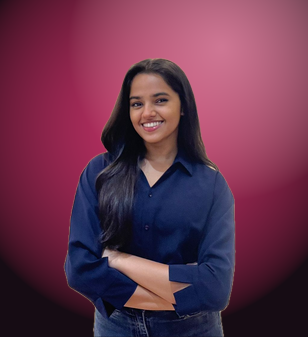
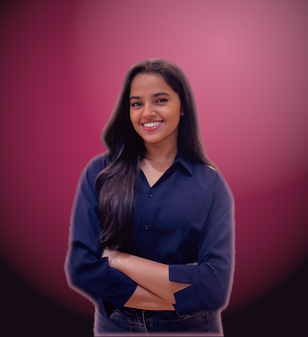
Relight hero photo to match the rose background

diff --git a/index.html b/index.html
@@ -38,7 +38,7 @@
           <p class="scene-word"><img class="logo-inline" src="images/logos/centurion-robotics.png" alt="" width="256" height="256">Centurion Robotics</p>
           <a class="pill" href="mailto:sanusha1415@gmail.com">Get in touch</a>
         </div>
-        <img src="images/sanusha.png" alt="Portrait of Sanusha K B" class="scene-photo" width="308" height="337">
+        <img src="images/sanusha.png?v=2" alt="Portrait of Sanusha K B" class="scene-photo" width="308" height="337">
         <p class="scene-side scene-left">Operations</p>
         <p class="scene-side scene-right">IIM Bangalore</p>
         <h1 class="scene-name"><span class="scene-hello">Hello, I&rsquo;m</span> <span class="scene-big">Sanusha&nbsp;K&nbsp;B</span></h1>
